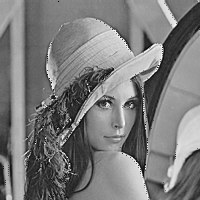
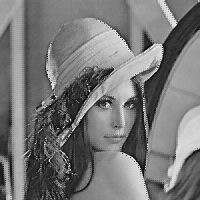
dont know

diff --git a/src/integration/reversible_data_hidig.py b/src/integration/reversible_data_hidig.py
@@ -45,7 +45,7 @@ class ReversibleDataHiding:
 if __name__ == '__main__':
     a = ReversibleDataHiding()
     root_path = pu.get_root_path()
-    file_name = "200px-Lenna.jpg"
+    file_name = "timg.jpeg"
     file_path = pu.path_join(root_path, pu.INPUT_PATH, file_name)
 
     gray_lena = iu.read_img(file_path, iu.READ_GRAY)

diff --git a/src/receiver/reconstruction.py b/src/receiver/reconstruction.py
@@ -52,6 +52,7 @@ class Receiver:
         l = len(self.data)
         if l < length:
             self.data += "0" * (length - l)
+        Receiver.save(self.ans, 'ans.png')
 
     def decryption(self):
         self.decrypted_img = dec.decryptioner(self.encrypted_img, eu.SECRET_KEY, 256).astype(np.uint8)
